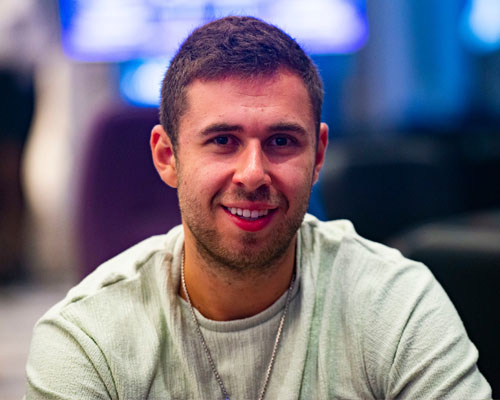
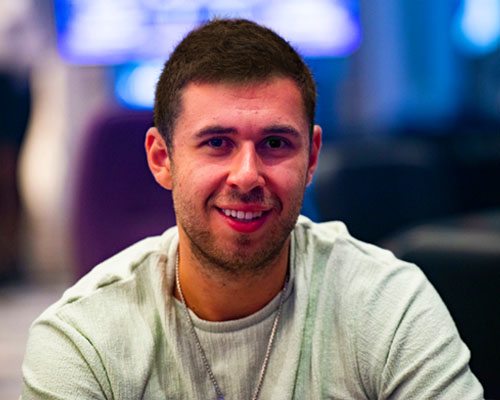
changes-pic

diff --git a/src/containers/SaasAppDark/Testimonials/index.js b/src/containers/SaasAppDark/Testimonials/index.js
@@ -33,6 +33,7 @@ import image14 from "common/assets/image/player14.jpeg";
 
 import imageDef from "common/assets/image/default.png";
 
+import image15 from "common/assets/image/player15.jpg";
 import image16 from "common/assets/image/player16.jpg";
 
 import image17 from "common/assets/image/player17.jpg";
@@ -112,6 +113,7 @@ import image71 from "common/assets/image/player71.jpg";
 import image72 from "common/assets/image/player72.jpg";
 
 import image073 from "common/assets/image/player073.jpg";
+import image074 from "common/assets/image/player074.jpg";
 
 import image73 from "common/assets/image/player73.jpg";
 import image74 from "common/assets/image/player74.jpg";
@@ -119,6 +121,7 @@ import image74 from "common/assets/image/player74.jpg";
 import image76 from "common/assets/image/player76.jpg";
 
 import image77 from "common/assets/image/player77.jpg";
+import image78 from "common/assets/image/player78.jpg";
 
 import image80 from "common/assets/image/player80.jpg";
 
@@ -477,7 +480,7 @@ const Testimonials = () => {
                 <div className="main_card__image">
                   <NextImage
                     className="cyprus-img"
-                    src={imageDef}
+                    src={image15}
                     alt="Zhenglong Zhou"
                   />
                 </div>
@@ -1520,7 +1523,7 @@ const Testimonials = () => {
                   />
                   <NextImage
                     className="cyprus-img"
-                    src={imageDef}
+                    src={image074}
                     alt=" Felipe Ramos "
                   />
                 </div>
@@ -1634,7 +1637,7 @@ const Testimonials = () => {
                   />
                   <NextImage
                     className="cyprus-img"
-                    src={imageDef}
+                    src={image78}
                     alt="Barak Wisbrod "
                   />
                 </div>
